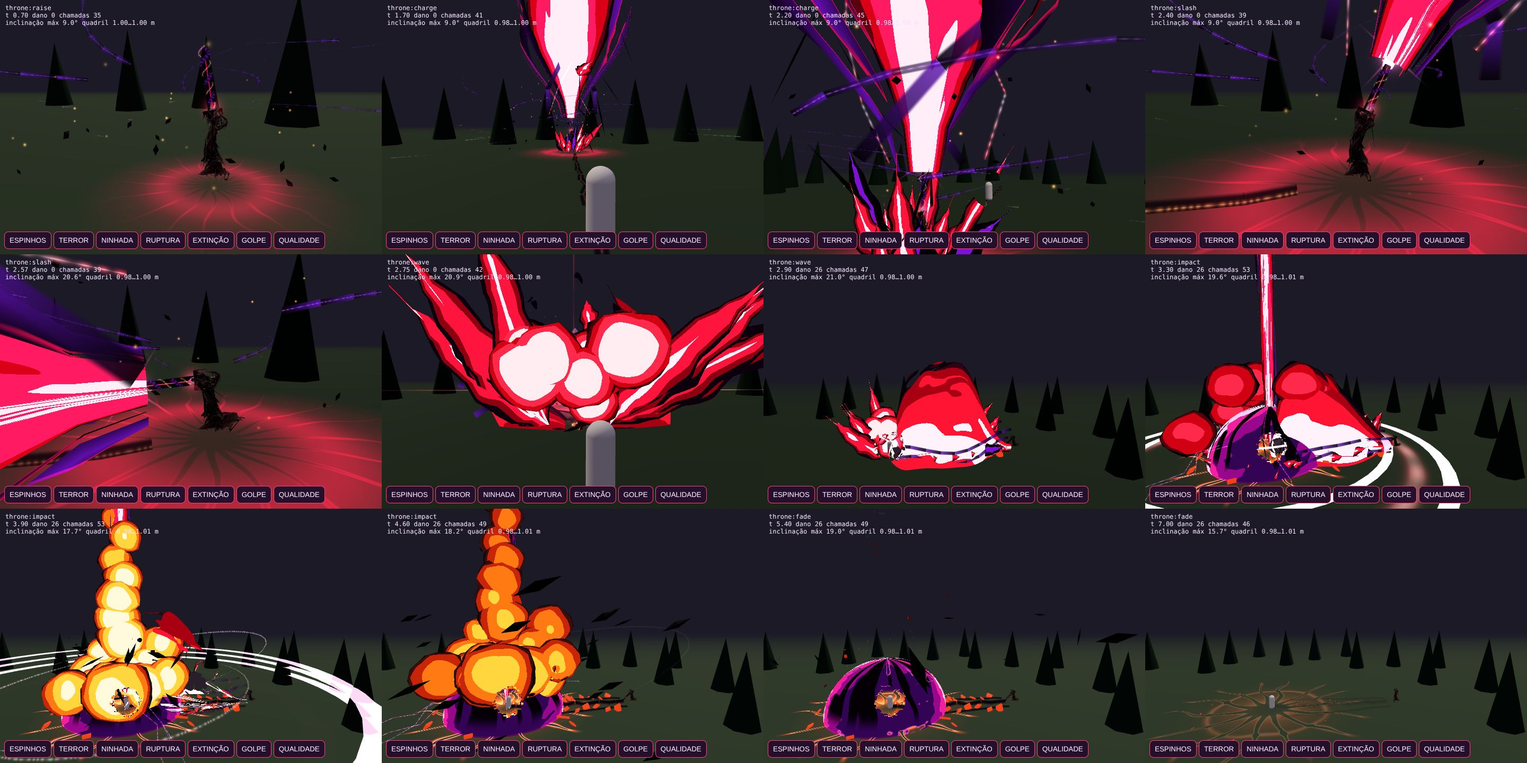
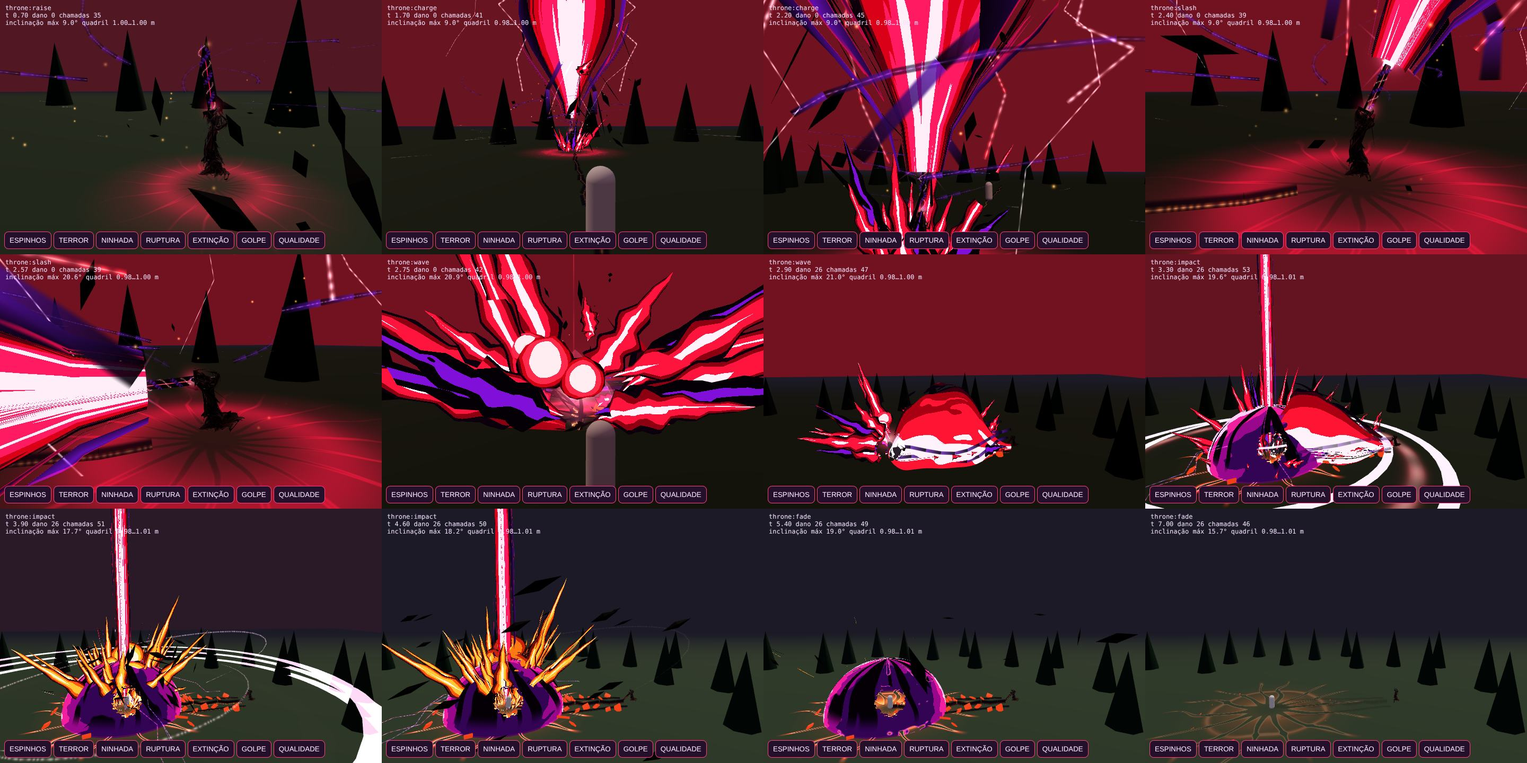
Mod 249: adendo visual da Ruptura — lâminas de energia, pilar rígido e luz carmim
- Explosão e base com lâminas oblíquas serrilhadas em V (carmim e fogo), sem bolas/fumaça dominantes
- Pilar com faixas verticais, raios brancos laterais e duas faixas escuras; pedras negras sugadas girando
- Luz carmim temporária no céu, névoa e luzes, restaurada integralmente; relatório e evidências atualizados

Claude-Session: https://claude.ai/code/session_01Df6v5vQwsoCNQPPSg1jLUc

diff --git a/vhazrael-rupture3d.js b/vhazrael-rupture3d.js
@@ -37,7 +37,7 @@ void main(){ float y=position.y; vec2 q=position.xz; float ang=atan(q.y,q.x); vY
  vec4 w=modelMatrix*vec4(q.x*r,y*len,q.y*r,1.); vN=normalize(mat3(modelMatrix)*vec3(q.x,0.,q.y)); vV=cameraPosition-w.xyz; gl_Position=projectionMatrix*viewMatrix*w; }`;
 const PIL_F = `${NOISE}${CUT} uniform float time, k, layer, erode, near; varying vec2 vA; varying vec3 vN; varying vec3 vV; varying float vY;
 void main(){ if(cutAway(vV,near)) discard; float f=abs(dot(normalize(vN),normalize(vV)));
- float n=fbm(vec2(vA.x*1.9+layer*5.,vA.y*.11-time*(9.+layer*3.))), top=k-.07*n2(vec2(vA.x*3.,time*3.));
+ float n=fbm(vec2(vA.x*5.5+layer*5.,vA.y*.025-time*(3.+layer))), top=k-.07*n2(vec2(vA.x*3.,time*3.));
  if(vY>top) discard; if(n<erode) discard;
  if(layer<.5){ float a=pow(f,1.6)*(.75+.5*n); vec3 c=mix(vec3(1.,.45,.75),vec3(1.,.97,1.),smoothstep(.45,.85,f)); gl_FragColor=vec4(c*a*1.6,a); return; }
  vec3 c;
@@ -74,7 +74,7 @@ void main(){ if(cutAway(vV,near)) discard; float f=abs(dot(normalize(vN),normali
 const TONG_V = `attribute vec4 aP; varying vec4 vP; varying vec2 vU; varying vec3 vV; void main(){ vP=aP; vU=uv; vec4 w=modelMatrix*instanceMatrix*vec4(position,1.); vV=cameraPosition-w.xyz; gl_Position=projectionMatrix*viewMatrix*w; }`;
 const TONG_F = `${NOISE}${CUT} uniform float time, near; varying vec4 vP; varying vec2 vU; varying vec3 vV;
 void main(){ if(cutAway(vV,near)) discard; float n=n2(vec2(vU.y*7.-time*9.+vP.w*13.,vU.x*2.)); float d=abs(vU.x)+(n-.5)*.42+vU.y*.18; if(d>.98||n2(vU*6.+vP.w*3.)<vP.z) discard;
- vec3 c=vP.y<.5?(d<.22*vP.x?vec3(1.,.95,.98):d<.55?vec3(1.,.08,.24):d<.8?vec3(.55,0.,.07):vec3(.05,0.,.05)):(d<.4?vec3(.5,.06,.85):vec3(.015,0.,.02));
+ vec3 c=vP.y<.5?(d<.22*vP.x?vec3(1.,.95,.98):d<.55?vec3(1.,.08,.24):d<.8?vec3(.55,0.,.07):vec3(.05,0.,.05)):vP.y<1.5?(d<.4?vec3(.5,.06,.85):vec3(.015,0.,.02)):(d<.2*vP.x?vec3(1.,.98,.86):d<.45?vec3(1.,.78,.2):d<.7?vec3(1.,.36,.05):d<.86?vec3(.45,.05,.02):vec3(.03,0.,.02));
  gl_FragColor=vec4(c,1.); }`;
 /* domo de energia: roxo profundo → magenta em faixas, borda clara, RASGOS negros verticais que escorrem; erode por ruído */
 const DOME_V = `varying vec3 vN; varying vec3 vV; varying vec3 vP; void main(){ vP=position; vec4 w=modelMatrix*vec4(position,1.); vN=normalize(mat3(modelMatrix)*normal); vV=cameraPosition-w.xyz; gl_Position=projectionMatrix*viewMatrix*w; }`;
@@ -92,7 +92,7 @@ const FAN_F = `varying vec4 vC; varying vec2 vU; void main(){ float a=vC.a*smoot
 
 function tongueGeo(T) { // lâmina de chama: base estreita, barriga, ponta recurvada; bordas serrilhadas; uv.x ∈ [-1,1]
   const pos = [], uv = [], idx = [], N = 9;
-  for (let j = 0; j <= N; j++) { const y = j / N, w = .5 * Math.pow(Math.sin(Math.PI * Math.min(1, y * 1.15)), .7) * (1 - y * .35) * (j % 2 ? .8 : 1) + .01, bend = y * y * .35;
+  for (let j = 0; j <= N; j++) { const y = j / N, w = .5 * (y < .28 ? y / .28 : (1 - y) / .72) * (j % 2 ? .62 : 1) + .01, bend = y * y * .3;
     pos.push(-w + bend, y, 0, bend, y, 0, w + bend, y, 0); uv.push(-1, y, 0, y, 1, y); if (j < N) { const a = j * 3, b = a + 3; idx.push(a, b, a + 1, a + 1, b, b + 1, a + 1, b + 1, a + 2, a + 2, b + 1, b + 2); } }
   const g = new T.BufferGeometry(); g.setAttribute('position', new T.Float32BufferAttribute(pos, 3)); g.setAttribute('uv', new T.Float32BufferAttribute(uv, 2)); g.setIndex(idx); return g;
 }
@@ -137,7 +137,7 @@ export function createRuptureVFX(T, kit) {
   /* massas de fogo/energia e línguas de chama instanciadas */
   const mkInst = (geo, vs, fs, n) => { const a = new Float32Array(n * 4); geo.setAttribute('aP', new T.InstancedBufferAttribute(a, 4).setUsage(T.DynamicDrawUsage)); const m = new T.ShaderMaterial({ vertexShader: vs, fragmentShader: fs, uniforms: { time: uTime, near: { value: 3 }, hole: uHole }, side: T.DoubleSide, toneMapped: false, fog: false });
     mats.push(m); geos.push(geo); const o = new T.InstancedMesh(geo, m, n); o.frustumCulled = false; o.count = 0; root.add(o); return { o, a, n: 0, max: n }; };
-  const puffs = mkInst(new T.IcosahedronGeometry(1, 2), PUFF_V, PUFF_F, 110), tongues = mkInst(tongueGeo(T), TONG_V, TONG_F, 140);
+  const puffs = mkInst(new T.IcosahedronGeometry(1, 2), PUFF_V, PUFF_F, 60), tongues = mkInst(tongueGeo(T), TONG_V, TONG_F, 220);
   const putI = (I, p, q, sx, sy, sz, a, b, c, d) => { if (I.n >= I.max) return; S.set(sx, sy, sz); M.compose(p, q, S); I.o.setMatrixAt(I.n, M); I.a.set([a, b, c, d], I.n * 4); I.n++; };
   /** massa: centro, raio, calor 0–1, paleta (0 fogo, 1 carmim), dissolução 0–1, semente */
   const puff = (x, y, z, r, heat, pal, dis, seed) => { if (r <= .02 || dis >= 1) return; A.set(x, y, z); Q.setFromAxisAngle(up, seed * 6.283); putI(puffs, A, Q, r, r * .92, r, heat, pal, dis, seed); };
@@ -150,11 +150,11 @@ export function createRuptureVFX(T, kit) {
   const ink = strips(T, 900, INK_F, false, uHole), fan = strips(T, 64, FAN_F, true, uHole); mats.push(ink.mat, fan.mat); geos.push(ink.geo, fan.geo); root.add(ink.mesh, fan.mesh);
   const INK = [.02, 0, .03], VIOL = [.36, .08, .7], CRIM = [.75, 0, .08], c4 = (c, a) => [c[0], c[1], c[2], a];
   const RED = [1, .05, .14], WHITE = [1, .95, 1], GOLD = [1, .62, .18], HOTV = [.62, .22, 1];
-  let hint = null;
+  let hint = null, tint = 0;
 
   /* ---------- auxiliares ---------- */
   function setPillar(px, py, pz, dir, len, rad, k, erode, swell) {
-    Q.setFromUnitVectors(up, dir); const R = [rad * .38, rad * 1.15, rad * 1.6], W = [.3, .62, .8], FL = [.12, .22, .3];
+    Q.setFromUnitVectors(up, dir); const R = [rad * .38, rad * 1.15, rad * 1.6], W = [.12, .3, .45], FL = [.05, .1, .14];
     for (let l = 0; l < 3; l++) { const o = pillar[l], u = o.material.uniforms; o.visible = true; o.position.set(px, py, pz); o.quaternion.copy(Q); u.len.value = len; u.rad.value = R[l] * swell; u.wob.value = W[l]; u.flare.value = FL[l]; u.k.value = k; u.erode.value = erode; }
   }
   /** espiral helicoidal (tinta + linha quente) em torno do eixo p + dir*t */
@@ -187,8 +187,9 @@ export function createRuptureVFX(T, kit) {
     // veios negro/carmim enrolando a lâmina da guarda até a ponta
     const L = base.distanceTo(tip); helix(base.x, base.y, base.z, D, L * Math.min(1, rise * 1.3), .09, 3, time * 9, false, .05, .95); helix(base.x, base.y, base.z, D, L * Math.min(1, rise * 1.3), .11, 3, time * 9 + 3.1, true, .07, .9);
     glow.add(base.x, base.y, base.z, .5 + .5 * rise, .5 + .5 * rise, 1, .1, .3, .7 * rise, 0);
-    // detritos subindo do chão com a pressão
-    for (let i = 0; i < (low ? 6 : 16); i++) { const a = hash(i * 3) * 6.283, r = 1.6 + hash(i * 5) * 4.5, u = (time * (.25 + .2 * hash(i)) + hash(i * 9)) % 1; shard(bx + Math.cos(a) * r, gy + u * (1.5 + 5 * chg) * rise, bz + Math.sin(a) * r, .07 + .12 * hash(i + 1), a + time, u * 6, i); }
+    // pedras negras angulares sugadas em espiral para o pilar, girando (tamanhos e formas variados)
+    for (let i = 0; i < (low ? 8 : 22); i++) { const a = hash(i * 3) * 6.283 + time * (.6 + hash(i + 2) * .9) * (1 + chg), r = (2 + hash(i * 5) * 7) * (1 - .55 * chg), u = (time * (.2 + .2 * hash(i)) + hash(i * 9)) % 1, sc = .08 + .5 * hash(i + 1) ** 2;
+      shard(bx + Math.cos(a) * r, gy + .3 + u * (2 + 9 * chg) * rise, bz + Math.sin(a) * r, sc, a * 2 + time * (2 + hash(i + 4) * 3), u * 7 + i, i * 1.3, sc * (.6 + hash(i + 5) * 1.6)); }
     groundNormal(ground, bx, bz, nrm); decals.add(bx, gy, bz, 2.2 + 3.5 * chg + 1.5 * rise, .9, .02, .2, .55 * rise, 2, 0, s.id + 3, nrm);
     // pilar colossal a partir da ponta (mesma direção da lâmina), cresce em massa, altura e turbulência
     const swing = age > 2.3, cutK = smooth((age - T0.cut) / .07);
@@ -199,6 +200,9 @@ export function createRuptureVFX(T, kit) {
         X.set(1, 0, 0); if (Math.abs(Fv.x) > .9) X.set(0, 0, 1); Z.crossVectors(Fv, X).normalize(); X.crossVectors(Z, Fv).normalize(); const ax = AX.copy(X), az = AZ.copy(Z);
         for (let i = 0; i < (low ? 6 : 16); i++) { const hh = (hash(i + 60) * .85 + .04) * len, an = hash(i + 61) * 6.283 + time * (hash(i + 62) - .5) * 3, ca = Math.cos(an), sa = Math.sin(an), r0 = 1.4 * swell, fl = .6 + .4 * Math.sin(time * 15 + i * 1.7);
           const ox = ax.x * ca + az.x * sa, oy = ax.y * ca + az.y * sa, oz = ax.z * ca + az.z * sa; tongue(tip.x + Fv.x * hh + ox * r0, tip.y + Fv.y * hh + oy * r0, tip.z + Fv.z * hh + oz * r0, ox + Fv.x * .9, oy + Fv.y * .9, oz + Fv.z * .9, (3 + 5 * hash(i + 63)) * fl * ign, 1 + .8 * hash(i + 64), .8, i % 3 === 0 ? 1 : 0, 0, hash(i + 65)); }
+        if (!low) for (let i = 0; i < 2; i++) { const sd = i ? 1 : -1, sw = Math.floor(time * 16 + i * 3); E.set(cam.x - tip.x, 0, cam.z - tip.z).normalize(); const rx = -E.z * sd, rz = E.x * sd, rr = 3.6 * swell; // raios brancos verticais nas laterais
+          boltRib(s.id * 3 + sw + i, tip.x + rx * rr, tip.y + 2, tip.z + rz * rr, tip.x + rx * rr * 1.3, tip.y + len * .7, tip.z + rz * rr * 1.3, .1, [1, .92, 1], .95 * lit); }
+        if (age > 1.35) { E.set(cam.x - tip.x, 0, cam.z - tip.z).normalize(); const rx = -E.z, rz = E.x, bw = 14 * smooth((age - 1.35) / .3); for (const hb of [.3, .52]) { const y = tip.y + len * hb; ink.seg(tip.x - rx * bw, y, tip.z - rz * bw, tip.x + rx * bw, y, tip.z + rz * bw, .5, .5, c4(INK, .92), c4(INK, .92)); } } // duas faixas escuras cruzando o pilar
         for (let h = 0; h < (low ? 2 : 4); h++) helix(tip.x, tip.y, tip.z, Fv, len * .92, 2.6 * swell, 2.2 + h * .3, time * (h % 2 ? -3 : 4) + h * 1.6, h % 2 === 0, .16 + .06 * (h % 2), .9 * lit); }
       // ignição: anel de choque + chuva de lascas negras/vermelhas na base (línguas de chama abrindo)
       if (!swing) { const n = low ? 6 : 14; for (let i = 0; i < n; i++) { const a = i / n * 6.283 + hash(i) * .5 + time * .4, fl = .7 + .3 * Math.sin(time * 17 + i * 2.1), Lh = (2.4 + 2.2 * hash(i + 3)) * ign * fl * (.8 + .5 * chg);
@@ -225,13 +229,13 @@ export function createRuptureVFX(T, kit) {
   /* ---------- D: feixe e chão rasgado ---------- */
   function drawBeam(s, boss) {
     const T0 = s.T, sp = T0.speed, ba = s.age - T0.cut, front = s.phase === 'wave' ? s.front : s.len, it = s.phase === 'wave' ? -1 : s.phase === 'impact' ? s.t : T0.impact + s.t, gy = ground(s.x, s.z);
-    const ero = smooth((it - .45) / .9), alive = it < 1.4, px = -s.dz, pz = s.dx, w1 = 4.6, sx = s.x, sz = s.z;
+    const ero = smooth((it - .1) / .6), alive = it < .75, px = -s.dz, pz = s.dx, w1 = 4.6, sx = s.x, sz = s.z;
     if (alive && front > .6) { Fv.set(s.dx, 0, s.dz); Q.setFromUnitVectors(up, Fv); X.set(px, 0, pz); Z.set(0, 1, 0); M.makeBasis(X, Fv, Z); Q.setFromRotationMatrix(M);
-      for (let l = 0; l < 2; l++) { const o = beam[l], u = o.material.uniforms, k = l ? 1 : .5; o.visible = true; o.position.set(sx - s.dx * .6, gy + .05, sz - s.dz * .6); o.quaternion.copy(Q); u.len.value = front + .6; u.w0.value = .45 * k; u.w1.value = w1 * k; u.h0.value = .8 * k; u.h1.value = 7.2 * k; u.erode.value = ero; }
+      for (let l = 0; l < 2; l++) { const o = beam[l], u = o.material.uniforms, k = l ? 1 : .5; o.visible = true; o.position.set(sx - s.dx * .6, gy + .05, sz - s.dz * .6); o.quaternion.copy(Q); u.len.value = front + .6; u.w0.value = .45 * k; u.w1.value = w1 * k; u.h0.value = .8 * k; u.h1.value = 5.4 * k; u.erode.value = ero; }
       // parede de massa carmim e línguas na FRENTE (só enquanto avança)
       if (s.phase === 'wave') { const fx = sx + s.dx * front, fz = sz + s.dz * front, fy = ground(fx, fz);
-        for (let i = 0; i < (low ? 4 : 9); i++) { const j = hash(i * 5.3) - .5, r = 1 + hash(i + 2) * 1.1; puff(fx + px * j * 5 + s.dx * (hash(i + 8) - .3) * 2, fy + .8 + hash(i + 4) * 3.2, fz + pz * j * 5 + s.dz * (hash(i + 8) - .3) * 2, r * (.85 + .15 * Math.sin(time * 19 + i)), .95, 1, 0, hash(i + 13 + Math.floor(time * 8))); }
-        for (let i = 0; i < (low ? 4 : 10); i++) { const sd = i % 2 ? 1 : -1, a = .35 + hash(i + 3) * .7; tongue(fx + px * sd * 1.5, fy + .3, fz + pz * sd * 1.5, s.dx * .6 + px * sd * Math.sin(a), Math.cos(a) * 1.4, s.dz * .6 + pz * sd * Math.sin(a), 5 + hash(i) * 5, 2 + hash(i + 1), .9, 0, 0, hash(i + Math.floor(time * 12))); }
+        for (let i = 0; i < (low ? 2 : 3); i++) { const j = hash(i * 5.3) - .5, r = .8 + hash(i + 2) * .6; puff(fx + px * j * 5 + s.dx * (hash(i + 8) - .3) * 2, fy + .8 + hash(i + 4) * 3.2, fz + pz * j * 5 + s.dz * (hash(i + 8) - .3) * 2, r * (.85 + .15 * Math.sin(time * 19 + i)), .95, 1, 0, hash(i + 13 + Math.floor(time * 8))); }
+        for (let i = 0; i < (low ? 6 : 16); i++) { const sd = i % 2 ? 1 : -1, a = .2 + hash(i + 3) * 1.1; tongue(fx + px * sd * (.6 + hash(i + 7) * 1.6), fy + .3 + hash(i + 9) * 2.5, fz + pz * sd * (.6 + hash(i + 7) * 1.6), s.dx * (.9 - .4 * hash(i)) + px * sd * Math.sin(a), Math.cos(a) * .9, s.dz * (.9 - .4 * hash(i)) + pz * sd * Math.sin(a), 5 + hash(i) * 6, 1.6 + hash(i + 1) * 1.4, .9, i % 5 === 0 ? 1 : 0, 0, hash(i + Math.floor(time * 12))); }
         glow.add(fx, fy + 2, fz, 7, 5, 1, .2, .4, .8, 0); }
       // línguas abrindo em V nos flancos e gavinhas negras
       for (let d = 2; d < front - 1; d += low ? 4 : 2.2) { const tp = ba - d / sp, fl = .75 + .25 * Math.sin(time * 21 + d), dis = Math.max(ero, smooth((tp - .9) / .5)), x = sx + s.dx * d, z = sz + s.dz * d, y = ground(x, z), wd = 1.1 + (w1 - 1.1) * smooth(d / (front * .45 + 1));
@@ -247,7 +251,7 @@ export function createRuptureVFX(T, kit) {
       for (const sd of [-1, 1]) { const off = 1 + hash(sd0 + sd) * 1.6, x = sx + s.dx * d + px * sd * off, z = sz + s.dz * d + pz * sd * off; if (lift > .02) plate(x, ground(x, z) - .25 + .45 * lift, z, (.55 + hash(sd0 + 2 + sd) * .55) * Math.min(1, lift * 1.4), sd * (.35 + .4 * hash(sd0 + sd * 5)) * lift, Math.atan2(s.dx, s.dz) + (hash(sd0 + 9) - .5), (hash(sd0 + 4) - .5) * .6 * lift); }
       if (tp > 0 && tp < 1.3 && !low || (low && tp > 0 && tp < 1 && d % 3 < 1.3)) for (let i = 0; i < 2; i++) { const sd = i ? 1 : -1, vx = sd * (2.5 + 4 * hash(sd0 + i)), vy = 6 + 6 * hash(sd0 + i + 3), vf = 2 + 3 * hash(sd0 + i + 6), y = vy * tp - 4.9 * tp * tp; if (y < 0) continue;
         const x = sx + s.dx * (d + vf * tp) + px * vx * tp, z = sz + s.dz * (d + vf * tp) + pz * vx * tp; shard(x, ground(x, z) + y, z, .12 + .16 * hash(sd0 + i + 9), tp * 7 + i, tp * 5, i, 1.2); }
-      if (tp > 0 && tp < 1.6 && !low && hash(sd0) > .45) { const k = tp / 1.6, x = sx + s.dx * d + px * (hash(sd0 + 1) - .5) * 3, z = sz + s.dz * d + pz * (hash(sd0 + 1) - .5) * 3; puff(x, ground(x, z) + .6 + k * 3.4, z, .7 + 1.3 * k, .14 * (1 - k), 0, smooth((k - .45) / .55), hash(sd0 + 2)); } // fumaça escura que sobe da fissura
+      if (tp > 0 && tp < 1.6 && !low && hash(sd0) > .75) { const k = tp / 1.6, x = sx + s.dx * d + px * (hash(sd0 + 1) - .5) * 3, z = sz + s.dz * d + pz * (hash(sd0 + 1) - .5) * 3; puff(x, ground(x, z) + .6 + k * 3.4, z, .7 + 1.3 * k, .14 * (1 - k), 0, smooth((k - .45) / .55), hash(sd0 + 2)); } // fumaça escura que sobe da fissura
     }
   }
 
@@ -270,13 +274,15 @@ export function createRuptureVFX(T, kit) {
     if (it > .1 && it < end - .3) { const ck = smooth((it - .1) / .3), ce = smooth((it - 1.3) / 1.4); setPillar(cx, cy - .2, cz, up, 44 * ck, .8, 1, ce, 1 + .4 * Math.sin(time * 9) * (1 - ce)); }
     if (!low && it > .1 && it < 1.8) for (let i = 0; i < 5; i++) { const an = hash(i + Math.floor(time * 14)) * 6.283; boltRib(s.id + i + Math.floor(time * 14), cx, cy + Rd * .85, cz, cx + Math.cos(an) * Rd * 2, cy + .2, cz + Math.sin(an) * Rd * 2, .12, i % 2 ? [1, .2, .8] : [.6, .25, 1], .95 * (1 - er)); }
     // massa carmim que explode para fora logo no início
-    if (it < 1.1) for (let i = 0; i < (low ? 5 : 12); i++) { const k = it / 1.1, a = hash(i + 70) * 6.283, el = hash(i + 71) * 1.2, r = (2 + 7 * easeOut(Math.min(1, k * 2))), rr = (1.4 + 1.1 * hash(i + 72)) * (.6 + .6 * easeOut(Math.min(1, k * 3)));
-      puff(cx + Math.cos(a) * Math.cos(el) * r, cy + 1 + Math.sin(el) * r, cz + Math.sin(a) * Math.cos(el) * r, rr, 1 - k * .8, 1, smooth((k - .55) / .45), hash(i + 73)); }
+    if (it < 1.2) for (let i = 0; i < (low ? 8 : 20); i++) { const k = it / 1.2, a = hash(i + 70) * 6.283, el = .35 + hash(i + 71) * 1.05, g = easeOut(Math.min(1, k * 3)), L = (5 + 7 * hash(i + 72)) * g; // lâminas carmim oblíquas abrindo em V
+      tongue(cx + Math.cos(a) * .8, cy + .2, cz + Math.sin(a) * .8, Math.cos(a) * Math.cos(el), Math.sin(el), Math.sin(a) * Math.cos(el), L, 1.4 + 1.2 * hash(i + 74), .9, i % 4 === 0 ? 1 : 0, smooth((k - .5) / .5), hash(i + 73)); }
+    if (it < .5) puff(cx, cy + 1.2, cz, 1.6 + 1.4 * easeOut(it / .5), 1, 1, smooth((it - .25) / .25), .4); // núcleo compacto
     // 5) explosão SECUNDÁRIA amarelo-branco/laranja: fogo em camadas, cogumelo que sobe, fumaça e rochas
     if (tb > 0) { const n = low ? 12 : 32;
-      for (let i = 0; i < n; i++) { const a = hash(i + 90) * 6.283, el = .1 + hash(i + 91) * 1.1, sp = 3.5 + 5.5 * hash(i + 92), k = tb, d = sp * easeOut(Math.min(1, k / 1.1)), r = (1.1 + 1.5 * hash(i + 93)) * (.5 + .8 * easeOut(Math.min(1, k / .45))) * (1 + .35 * smooth((k - 1) / 1.2));
-        const heat = (1 - .65 * smooth(k / (2.2 + hash(i + 94) * .8))) * (1.08 - .3 * (sp - 3.5) / 5.5), dis = smooth((k - .95 - hash(i + 95) * .5) / .8); puff(cx + Math.cos(a) * Math.cos(el) * d, cy + .6 + Math.sin(el) * d + k * 2.2, cz + Math.sin(a) * Math.cos(el) * d, r, heat, 0, dis, hash(i + 96)); }
-      for (let i = 0; i < (low ? 3 : 7); i++) { const k = tb, y = 2 + i * 2.3 + 9 * easeOut(Math.min(1, k / 1.4)), r = (2.4 - i * .18) * (.5 + .7 * easeOut(Math.min(1, k / .6))); puff(cx + (hash(i + 30) - .5) * 1.5, cy + y, cz + (hash(i + 31) - .5) * 1.5, r, (1 - .75 * smooth(k / 2.2)) * (1 - i * .05), 0, smooth((k - 1.2 - i * .05) / .8), hash(i + 32)); }
+      for (let i = 0; i < n; i++) { const a = hash(i + 90) * 6.283, el = .45 + hash(i + 91) * 1.05, k = tb - hash(i + 97) * .35; if (k <= 0) continue; // lâminas de fogo direcionais em leque (não bolas)
+        const g = easeOut(Math.min(1, k / .35)), L = (6 + 9 * hash(i + 92)) * g * (1 + .25 * smooth((k - .6) / 1)), dis = smooth((k - .8 - hash(i + 95) * .5) / .7);
+        tongue(cx + Math.cos(a) * 1.2, cy + .3, cz + Math.sin(a) * 1.2, Math.cos(a) * Math.cos(el), Math.sin(el), Math.sin(a) * Math.cos(el), L, 1.6 + 1.6 * hash(i + 93), 1, 2, dis, hash(i + 96)); }
+      for (let i = 0; i < (low ? 3 : 6); i++) { const k = tb, a = hash(i + 30) * 6.283, r = (1 + .7 * hash(i + 31)) * (.6 + .6 * easeOut(Math.min(1, k / .4))); puff(cx + Math.cos(a) * 1.6, cy + 1 + i * .9 + k * 1.5, cz + Math.sin(a) * 1.6, r, 1 - .5 * smooth(k / 1.4), 0, smooth((k - .7 - i * .06) / .6), hash(i + 32)); } // núcleo incandescente de apoio
       for (let i = 0; i < (low ? 8 : 26); i++) { const a = hash(i + 110) * 6.283, v = 8 + 9 * hash(i + 111), vy = 6 + 10 * hash(i + 112), k = tb, y = vy * k - 4.9 * k * k; if (y < 0) continue; shard(cx + Math.cos(a) * v * k, cy + 1 + y, cz + Math.sin(a) * v * k, .25 + .4 * hash(i + 113), k * 6 + i, k * 4, i, 1.1); }
       for (let i = 0; i < (low ? 0 : 3); i++) { const k = (tb - .1 - i * .12) / 1; if (k < 0 || k > 1) continue; const R = 9 + 7 * easeOut(k) + i * 2, tilt = .25 + i * .2, sp0 = i * 2.1 + time * .3, a = (1 - k) * .9; let ox, oy, oz; // arcos crescentes brancos
         for (let j = 0; j <= 22; j++) { const t = sp0 + j / 22 * 3.6, x = cx + Math.cos(t) * R, z = cz + Math.sin(t) * R, y = cy + 3 + i * 1.5 + Math.sin(t) * R * tilt * .3; if (j) rib.seg(ox, oy, oz, x, y, z, .18 * Math.sin(j / 22 * 3.14), .18 * Math.sin((j + 1) / 22 * 3.14), c4(WHITE, a), c4([1, .6, .85], a)); ox = x; oy = y; oz = z; } }
@@ -287,12 +293,12 @@ export function createRuptureVFX(T, kit) {
   }
 
   return {
-    get camHint() { return hint; },
-    begin(camera, t, q, target) { time = t; uTime.value = t; low = q === 0; cam.copy(camera.position); hint = null; dome.visible = false;
+    get camHint() { return hint; }, get tint() { return tint; },
+    begin(camera, t, q, target) { time = t; uTime.value = t; low = q === 0; cam.copy(camera.position); hint = null; tint = 0; dome.visible = false;
       if (target && target.alive !== false) uHole.value.set(target.x, ground(target.x, target.z) + 1, target.z, 1.7); else uHole.value.w = 0; /* o herói nunca some dentro do efeito */ for (const o of pillar) o.visible = false; for (const o of beam) o.visible = false; puffs.n = tongues.n = 0; ink.begin(cam); fan.begin(cam); },
     /** blade: {a,b} em mundo (guarda e ponta); boss: ator dono (pode faltar depois do corte) */
     draw(s, blade, boss) {
-      if (s.cancel) return; const T0 = s.T;
+      if (s.cancel) return; const T0 = s.T; tint = Math.max(tint, Math.min(1, (s.dim || 0) / .75)); /* céu, terreno e bispo em carmim na carga/disparo */
       if ((s.phase === 'raise' || s.phase === 'charge' || s.phase === 'slash' || (s.phase === 'wave' && s.age < T0.cut + .25)) && blade && boss) drawCharge(s, blade, boss);
       if (s.phase === 'wave' || s.phase === 'impact' || s.phase === 'fade') drawBeam(s, boss);
       if ((s.phase === 'impact' || s.phase === 'fade') && s.ix !== undefined) drawImpact(s);

diff --git a/mundo-3d-prototype.js b/mundo-3d-prototype.js
@@ -1746,7 +1746,7 @@ function animate(){requestAnimationFrame(animate);if(whiteLease.locked&&(vsOpen|
  if(combatStepNow()&&enemy.visible&&enemyAlive&&Math.hypot(enemy.position.x-player.position.x,enemy.position.z-player.position.z)<6.5)enemy.rotation.y=Math.atan2(player.position.x-enemy.position.x,player.position.z-enemy.position.z);
  if(dialogueOpen&&actions.idle&&now>actionUntil)play('idle',.08);
 updatePlayerMovement(dt,now);
-updateSquadCombat(dt,now);updateEnemy1Lab(dt);updateEnemyAI(dt);updateEnemyHud();updatePlayerHud();playerMana=regenMana(playerMana,dt*act3ManaMul(),combatStepNow()&&enemy.visible&&enemyAlive);updateSkillHud(now);updateDayNight(dt);applySquadDim();vzUpdateLock();updateInstanceCulling();checkSecretRuin();
+updateSquadCombat(dt,now);updateEnemy1Lab(dt);updateEnemyAI(dt);updateEnemyHud();updatePlayerHud();playerMana=regenMana(playerMana,dt*act3ManaMul(),combatStepNow()&&enemy.visible&&enemyAlive);updateSkillHud(now);updateDayNight(dt);applySquadDim();applyVzTint();vzUpdateLock();updateInstanceCulling();checkSecretRuin();
  updatePlayerCamera(dt);
 updatePoses(dt);updatePlayerSwordMount();updateFirstPerson(dt,now);updateRites(dt);
 // Vegetação instanciada permanece imóvel; evita rotações por quadro de centenas de instâncias.
@@ -3211,6 +3211,18 @@ function applySquadDim(){
  if(k<=.002){if(squadDim.on){if(hemiLight.intensity===squadDim.setH)hemiLight.intensity=squadDim.h;if(sunLight.intensity===squadDim.setS)sunLight.intensity=squadDim.s;squadDim.on=false;}return;}
  if(!squadDim.on||hemiLight.intensity!==squadDim.setH)squadDim.h=hemiLight.intensity;if(!squadDim.on||sunLight.intensity!==squadDim.setS)squadDim.s=sunLight.intensity;squadDim.on=true;
  squadDim.setH=hemiLight.intensity=squadDim.h*(1-.42*k);squadDim.setS=sunLight.intensity=squadDim.s*(1-.55*k);
+}
+/** MOD 249 — luz carmim da Ruptura (céu, névoa, terreno e bispo) que sobe na carga/disparo e cai devagar. Guarda a cor
+    de base a cada quadro e devolve integralmente quando acaba (também quando ninguém mais reescreve as cores, ex.: voidMode). */
+const vzTint={on:false,base:{},set:{}},VZ_CRIM=new THREE.Color(0x9a0618),VZ_CRIM_G=new THREE.Color(0x2a0006);
+function applyVzTint(){
+ const k=squadRT?Math.min(1,squadRT.vhazraelVFX.throneTint||0):0;
+ for(const [key,c] of [['bg',scene.background],['fog',scene.fog&&scene.fog.color],['hs',hemiLight.color],['hg',hemiLight.groundColor],['sun',sunLight.color],['fill',fill.color],['sky',skyDome.material.color]]){
+  if(!c||!c.isColor)continue;if(vzTint.on&&vzTint.set[key]&&c.equals(vzTint.set[key]))c.copy(vzTint.base[key]);
+  (vzTint.base[key]||(vzTint.base[key]=new THREE.Color())).copy(c);
+  if(k>.002){c.lerp(key==='hg'?VZ_CRIM_G:VZ_CRIM,k*(key==='sky'?.7:key==='bg'||key==='fog'?.55:key==='sun'?.5:.6));(vzTint.set[key]||(vzTint.set[key]=new THREE.Color())).copy(c);}
+ }
+ vzTint.on=k>.002;
 }
 function squadEvent(type,d){
  const a=d&&d.actor,s=d&&d.spell;

diff --git a/vhazrael-preview.html b/vhazrael-preview.html
@@ -38,7 +38,7 @@ function cam(){const sq=rt&&rt.squad,a=sq&&sq.actors[0];if(!a)return;const s=sq.
  if(kind==='throne'){if(camMode==='hero'){camera.position.set(hero.x+.8,2.7,hero.z-5.2);camera.lookAt(a.x,2.2,a.z);return;}if(camMode==='wide'){camera.position.set(a.x-30,12,a.z*.5-4);camera.lookAt(a.x,9,a.z*.5);return;}if(camMode==='back'){camera.position.set(a.x+3,3.2,a.z+7);camera.lookAt(a.x,5,a.z-4);return;}
   const hint=rt.vhazraelVFX.throneHint;camera.position.set(a.x-11,4,a.z-9);camera.lookAt(a.x*.5,2.5+(hint?hint.k*8:0),a.z*.55);return;}
  camera.position.set(a.x-6,3,a.z-7);camera.lookAt(a.x,3,a.z);}
-function step(dt){time+=dt;rt.update(dt,{targets:[hero],camera,quality});heroM.position.set(hero.x,.87,hero.z);const dk=rt.dim||0;hemi.intensity=1.6*(1-.42*dk);sun.intensity=1.7*(1-.55*dk);measure();}
+function step(dt){time+=dt;rt.update(dt,{targets:[hero],camera,quality});heroM.position.set(hero.x,.87,hero.z);const dk=rt.dim||0,tk=rt.vhazraelVFX.throneTint||0;hemi.intensity=1.6*(1-.42*dk);sun.intensity=1.7*(1-.55*dk);hemi.color.set(0xd8d4ff).lerp(new T.Color(0x9a0618),tk*.55);sun.color.set(0xfff0dd).lerp(new T.Color(0x9a0618),tk*.45);scene.background.set('#1b1a26').lerp(new T.Color(0x9a0618),tk*.5);measure();}
 function draw(){const o=rt&&rt.orbit;if(o&&(o.phase==='orbit'||o.phase==='entry')){const v=rt.vhazraelVFX;v.orbitalCamera.aspect=camera.aspect;v.orbitalCamera.updateProjectionMatrix();renderer.render(v.orbitalScene,v.orbitalCamera);}else renderer.render(scene,camera);}
 function frame(){requestAnimationFrame(frame);if(!rt)return;if(freezeAt===null){cam();step(Math.min(.033,1/60));}const sq=rt.squad;
  info.textContent=(sq?sq.spells.map(s=>s.type+':'+s.phase).join(' '):'')+'\nt '+time.toFixed(2)+' dano '+heroHp+' chamadas '+renderer.info.render.calls+'\ninclinação máx '+qa.tilt.toFixed(1)+'° quadril '+qa.sink.toFixed(2)+'…'+qa.lift.toFixed(2)+' m';draw();}

diff --git a/vhazrael-vfx3d.js b/vhazrael-vfx3d.js
@@ -339,7 +339,7 @@ export function createVhazraelVFX(T, scene, { ground = () => 0 } = {}) {
       glow.end(); rib.end(); decals.end(time); rupture.end(); return orbitInfo;
     },
     /** pedido de câmera da Ruptura (abrir o plano/olhar para cima durante a carga) — o jogo decide se usa */
-    get throneHint() { return rupture.camHint; },
+    get throneHint() { return rupture.camHint; }, get throneTint() { return rupture.tint; },
     clear() { rupture.clear(); mega.visible = megaCore.visible = ent.visible = meteor.visible = column.visible = flameBg.visible = false; for (const k in kit) kit[k].m.count = 0; for (const st of spikeSets) st.m.count = 0; shards.count = plates.count = rings.count = 0; gaitOf.clear(); },
     dispose() { scene.remove(root); rupture.dispose(); for (const g of geos) g.dispose(); for (const m of mats) m.dispose(); glow.dispose(); rib.dispose(); decals.dispose(); }
   };

diff --git a/docs/auditorias/VHAZRAEL-RUPTURA-ESPADA.md b/docs/auditorias/VHAZRAEL-RUPTURA-ESPADA.md
@@ -76,6 +76,17 @@ A cratera e a fissura esfriam devagar.
 - Superfícies muito perto da lente também são recortadas.
 - O efeito usa cerca de 10 chamadas de desenho extras (tudo instanciado ou em buffers fixos, sem alocação por quadro). A qualidade baixa reduz as contagens.
 
+## Adendo visual do criador (aplicado)
+- **Base e explosão:** as massas arredondadas e a fumaça cinza dominante deram lugar a lâminas de energia oblíquas e serrilhadas, com perfil triangular, abrindo em V:
+  - carmim/branco com casca negra/violeta no choque;
+  - amarelo-branco/laranja na explosão secundária.
+
+  Algumas massas pequenas ficam só como núcleo de apoio.
+- **Pilar:** mais rígido e direcional, com faixas verticais brancas/vermelhas convergentes, menos ondulação, raios brancos verticais irregulares nas laterais e duas faixas escuras horizontais cruzando-o.
+- **Pedras negras:** angulares, de tamanhos e formas variados, sugadas em espiral e girando.
+- **Luz carmim:** cobre céu, névoa, hemisfério, sol e preenchimento durante a carga e o disparo, com queda gradual. A cor de base é guardada a cada quadro e devolvida integralmente no fim.
+- **Bloom seletivo:** não aplicado. O jogo não tem pós-processamento, e um bloom só para este golpe custaria caro no celular. O brilho vem de cores em faixas e de núcleos aditivos.
+
 ## Testes
 - **`node --test`:** 309 aprovados, 0 falhas, incluindo os testes novos do Mod 249:
   - fases e eventos na ordem;
@@ -90,7 +101,7 @@ A cratera e a fissura esfriam devagar.
   - jogo também em paisagem 900×405, com capturas por etapa;
   - teste de spam (toques no GOLPE, magia, ULTIMATE e dano de 25 por amostra, com dano letal no meio) durante o golpe, também em tela de celular: o bispo seguiu no golpe até o fim com 1 HP e só então morreu;
   - regressão: Skills 1–3 e Extinção Orbital completas no laboratório, e os labs do Enemy1/Enemy2, todos com 0 erros de console.
-- **Evidências:** `docs/evidencias/mod249/`.
+- **Evidências:** `docs/evidencias/mod249/` (prévia completa, adendo, jogo em paisagem do início à recuperação, luz carmim, pilar e herói visível).
 
 ## Limitações
 - Não testado em Android físico. FPS real não medido (SwiftShader não serve para isso). Áudio não ouvido.
